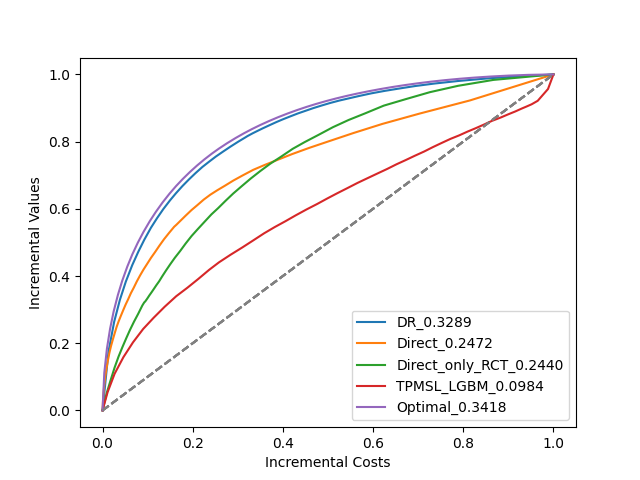
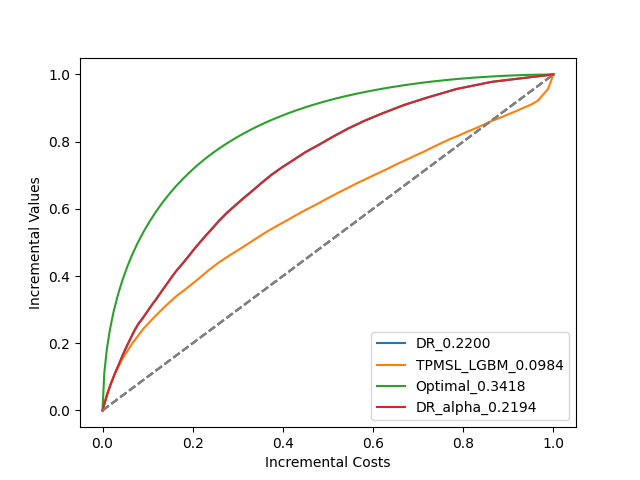
fix

diff --git a/src/evaluate/evaluate.py b/src/evaluate/evaluate.py
@@ -75,9 +75,15 @@ def calculate_values(
 
 
 def cost_curve(
-    incremental_costs: NDArray[Any], incremental_values: NDArray[Any], label: str
+    rct_ratio: float,
+    incremental_costs: NDArray[Any],
+    incremental_values: NDArray[Any],
+    label: str,
+    alpha: bool = False,
 ) -> None:
     normalized_costs = incremental_costs / incremental_costs.max()
+    if alpha:
+        incremental_values += rct_ratio * normalized_costs
     normalized_values = incremental_values / incremental_values.max()
 
     # グラフ描画
@@ -103,6 +109,42 @@ def cost_curve(
     plt.ylabel("Incremental Values")
     plt.legend()
     plt.savefig("cost_curve.png")
+
+
+def optimize_alpha(
+    rct_ratio: float,
+    roi_scores: NDArray[Any],
+    true_tau_r: NDArray[Any],
+    true_tau_c: NDArray[Any],
+) -> Tuple[Any, Any]:
+    random_treatment_indices = int(len(roi_scores) * rct_ratio)
+    model_based_treatment = roi_scores[random_treatment_indices:]
+    sorted_indices = np.argsort(model_based_treatment)[::-1] + random_treatment_indices
+    p_values = np.linspace(0, 1, 50)
+    incremental_costs = []
+    incremental_values = []
+    import pdb; pdb.set_trace()
+
+    for p in p_values:
+        top_p_indices = sorted_indices[: int(p * len(model_based_treatment))]
+
+        # ATE (Average Treatment Effect) の計算
+        ATE_Yr = np.mean(true_tau_r[top_p_indices])
+        ATE_Yc = np.mean(true_tau_c[top_p_indices])
+
+        incremental_costs.append(ATE_Yc * len(top_p_indices))
+        incremental_values.append((1 - rct_ratio) * ATE_Yr * len(top_p_indices))
+        # print(ATE_Yr , ATE_Yc,np.sum(treatment_indices))
+    # nanがあれば0に変換
+    incremental_costs = np.array(incremental_costs)
+    incremental_values = np.array(incremental_values)
+    incremental_costs[np.isnan(incremental_costs)] = 0
+    incremental_values[np.isnan(incremental_values)] = 0
+    incremental_costs[0] = 0
+    incremental_values[0] = 0
+
+    return incremental_costs, incremental_values
+
 
 # # 例として適用するデータ
 # incremental_costs = np.array([0, 0.25, 0.5, 0.75, 1])

diff --git a/inference.py b/inference.py
@@ -2,7 +2,7 @@ import matplotlib.pyplot as plt
 import torch
 from torch.utils.data import DataLoader
 
-from src.evaluate.evaluate import calculate_values, cost_curve
+from src.evaluate.evaluate import calculate_values, cost_curve, optimize_alpha
 from src.make_data import DatasetGenerator
 from src.model.common import get_model, make_loader
 from src.model.tpmsl_lgbm import get_roi_tpmsl
@@ -43,10 +43,16 @@ def load_test_data(
 
 
 def inference(
-    n_features: int, train_dataset: dict, test_dataset: dict, test_dl: DataLoader
+    n_features: int,
+    ps_delta: float,
+    rct_ratio: float,
+    train_dataset: dict,
+    test_dataset: dict,
+    test_dl: DataLoader,
 ) -> None:
     roi_dic = {}
     method_list = ["DR", "Direct", "Direct_only_RCT"]
+    method_list = ["DR"]
     for method in method_list:
         path = f"model_{method}.pth"
         # モデルの読み込み
@@ -58,6 +64,13 @@ def inference(
         incremental_costs, incremental_values = calculate_values(
             predictions, test_dataset["true_tau_r"], test_dataset["true_tau_c"]
         )
+        incremental_costs_alpha, incremental_values_alpha = optimize_alpha(
+            rct_ratio,
+            predictions,
+            test_dataset["true_tau_r"],
+            test_dataset["true_tau_c"],
+        )
+    import pdb; pdb.set_trace()
     roi_tpmsl = get_roi_tpmsl(
         train_dataset,
         test_dataset,
@@ -69,4 +82,5 @@ def inference(
         incremental_costs, incremental_values = calculate_values(
             roi_dic[roi], test_dataset["true_tau_r"], test_dataset["true_tau_c"]
         )
-        cost_curve(incremental_costs, incremental_values, label=roi)
+        cost_curve(rct_ratio, incremental_costs, incremental_values, label=roi, alpha=False)
+    cost_curve(rct_ratio, incremental_costs_alpha, incremental_values_alpha, label="DR_alpha", alpha=True)

diff --git a/main.py b/main.py
@@ -15,16 +15,16 @@ def main(predict_ps: bool, validate: bool) -> None:
     test_samples = 100_000
     n_features = 4
     delta = 0.0
-    ps_delta = 0.1  # 3パターン
+    ps_delta = 0.3  # 4パターン
     rct_ratio = 0.05  # 8パターン # Direct:rct_ratioは大きい方がいい
     batch_size = 8
     weight_decay = 1e-2
     model_name = "Direct"
     model_params = {"input_dim": n_features}
-    method = "Direct"
+    method = "DR"
     only_rct = True if method == "Direct_only_RCT" else False
     num_epochs_list = [50, 50]
-    lr_list = [0.0001, 0.00001]
+    lr_list = [0.00001, 0.00001]
     dataset = DatasetGenerator(
         n_samples,
         n_features,
@@ -97,6 +97,8 @@ def main(predict_ps: bool, validate: bool) -> None:
 
     inference(
         n_features=n_features,
+        ps_delta=ps_delta,
+        rct_ratio=rct_ratio,
         train_dataset=train_dataset,
         test_dataset=test_dataset,
         test_dl=test_dl,
@@ -104,4 +106,4 @@ def main(predict_ps: bool, validate: bool) -> None:
 
 
 if __name__ == "__main__":
-    main(predict_ps=True, validate=False)
+    main(predict_ps=True, validate=True)

diff --git a/src/make_data.py b/src/make_data.py
@@ -84,8 +84,9 @@ class DatasetGenerator:
             rct_flag = np.ones(int(self.n_samples * self.rct_ratio))
         else:
             rct_flag = np.zeros(self.n_samples)
-            for i in range(0, self.n_samples, int(1 / self.rct_ratio)):
-                rct_flag[i] = 1
+            if self.rct_ratio > 0:
+                for i in range(0, self.n_samples, int(1 / self.rct_ratio)):
+                    rct_flag[i] = 1
         return {"RCT_flag": rct_flag}
 
     def generate_feature(self) -> Dict[str, NDArray[Any]]:
